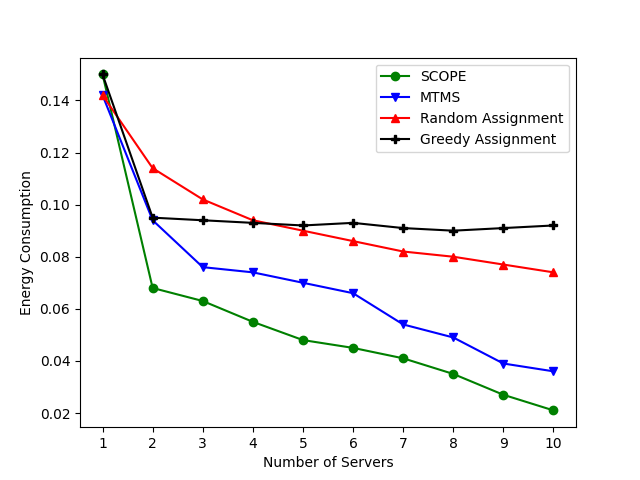
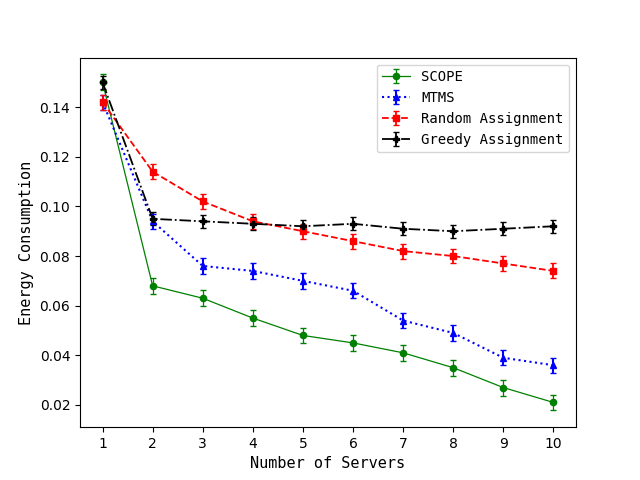
servervsenergy graph modified

diff --git a/dummygraph.py b/dummygraph.py
@@ -154,7 +154,8 @@ def serverVsLatency():
 
     font = font_manager.FontProperties(family='monospace', weight='regular', style='normal', size=10)
     plt.legend(prop=font)
-    plt.savefig("Images/serverlatency.png")
+
+    plt.savefig("Images/servervslatency.png")
     plt.show()
     clearDataSet()
 
@@ -162,15 +163,21 @@ def serverVsLatency():
 def serverVsEnergy():
     prepareDataSet('Data/servervsenergy.txt')
 
-    plt.xlabel('Number of Servers')
-    plt.ylabel('Energy Consumption')
+    plt.xlabel('Number of Servers', fontsize=11, fontname='monospace')
+    plt.ylabel('Energy Consumption', fontsize=11, fontname='monospace')
 
-    plt.plot(x1, y4, marker='o', c='g', label='SCOPE')
-    plt.plot(x1, y1, marker='v', c='b', label='MTMS')
-    plt.plot(x1, y2, marker='^', c='r', label='Random Assignment')
-    plt.plot(x1, y3, marker='P', c='k', label='Greedy Assignment')
+    plt.errorbar(x1, y4, color='g', label='SCOPE', yerr=0.0032, marker='o', capsize=2, linestyle='solid', linewidth=0.9,
+                 markersize=4.5, fillstyle='full')
+    plt.errorbar(x1, y1, color='b', label='MTMS', yerr=0.0031, marker='^', capsize=2, linestyle='dotted', linewidth=1.5,
+                 markersize=4.1, fillstyle='full')
+    plt.errorbar(x1, y2, color='r', label='Random Assignment', yerr=0.0030, marker='s', capsize=2, linestyle='dashed',
+                 linewidth=1.3, markersize=3.8, fillstyle='full')
+    plt.errorbar(x1, y3, color='k', label='Greedy Assignment', yerr=0.0026, marker='P', capsize=2, linestyle='dashdot',
+                 linewidth=1.3, markersize=4.5, fillstyle='full')
 
-    plt.legend()
+    font = font_manager.FontProperties(family='monospace', weight='regular', style='normal', size=10)
+    plt.legend(prop=font)
+
     plt.savefig("Images/servervsenergy.png")
     plt.show()
     clearDataSet()
@@ -354,10 +361,10 @@ def taskSizeVsTaskDropBar():
 # subtaskVsUtilCost()
 # subtaskVsTaskDrop()
 
-serverVsLatency()
+# serverVsLatency()
 serverVsEnergy()
-serverVsUtilityPerUnitCost()
-serverVsTaskDrop()
+# serverVsUtilityPerUnitCost()
+# serverVsTaskDrop()
 # serverVsTaskDropBar()
 
 # taskSizeVsLatency()
